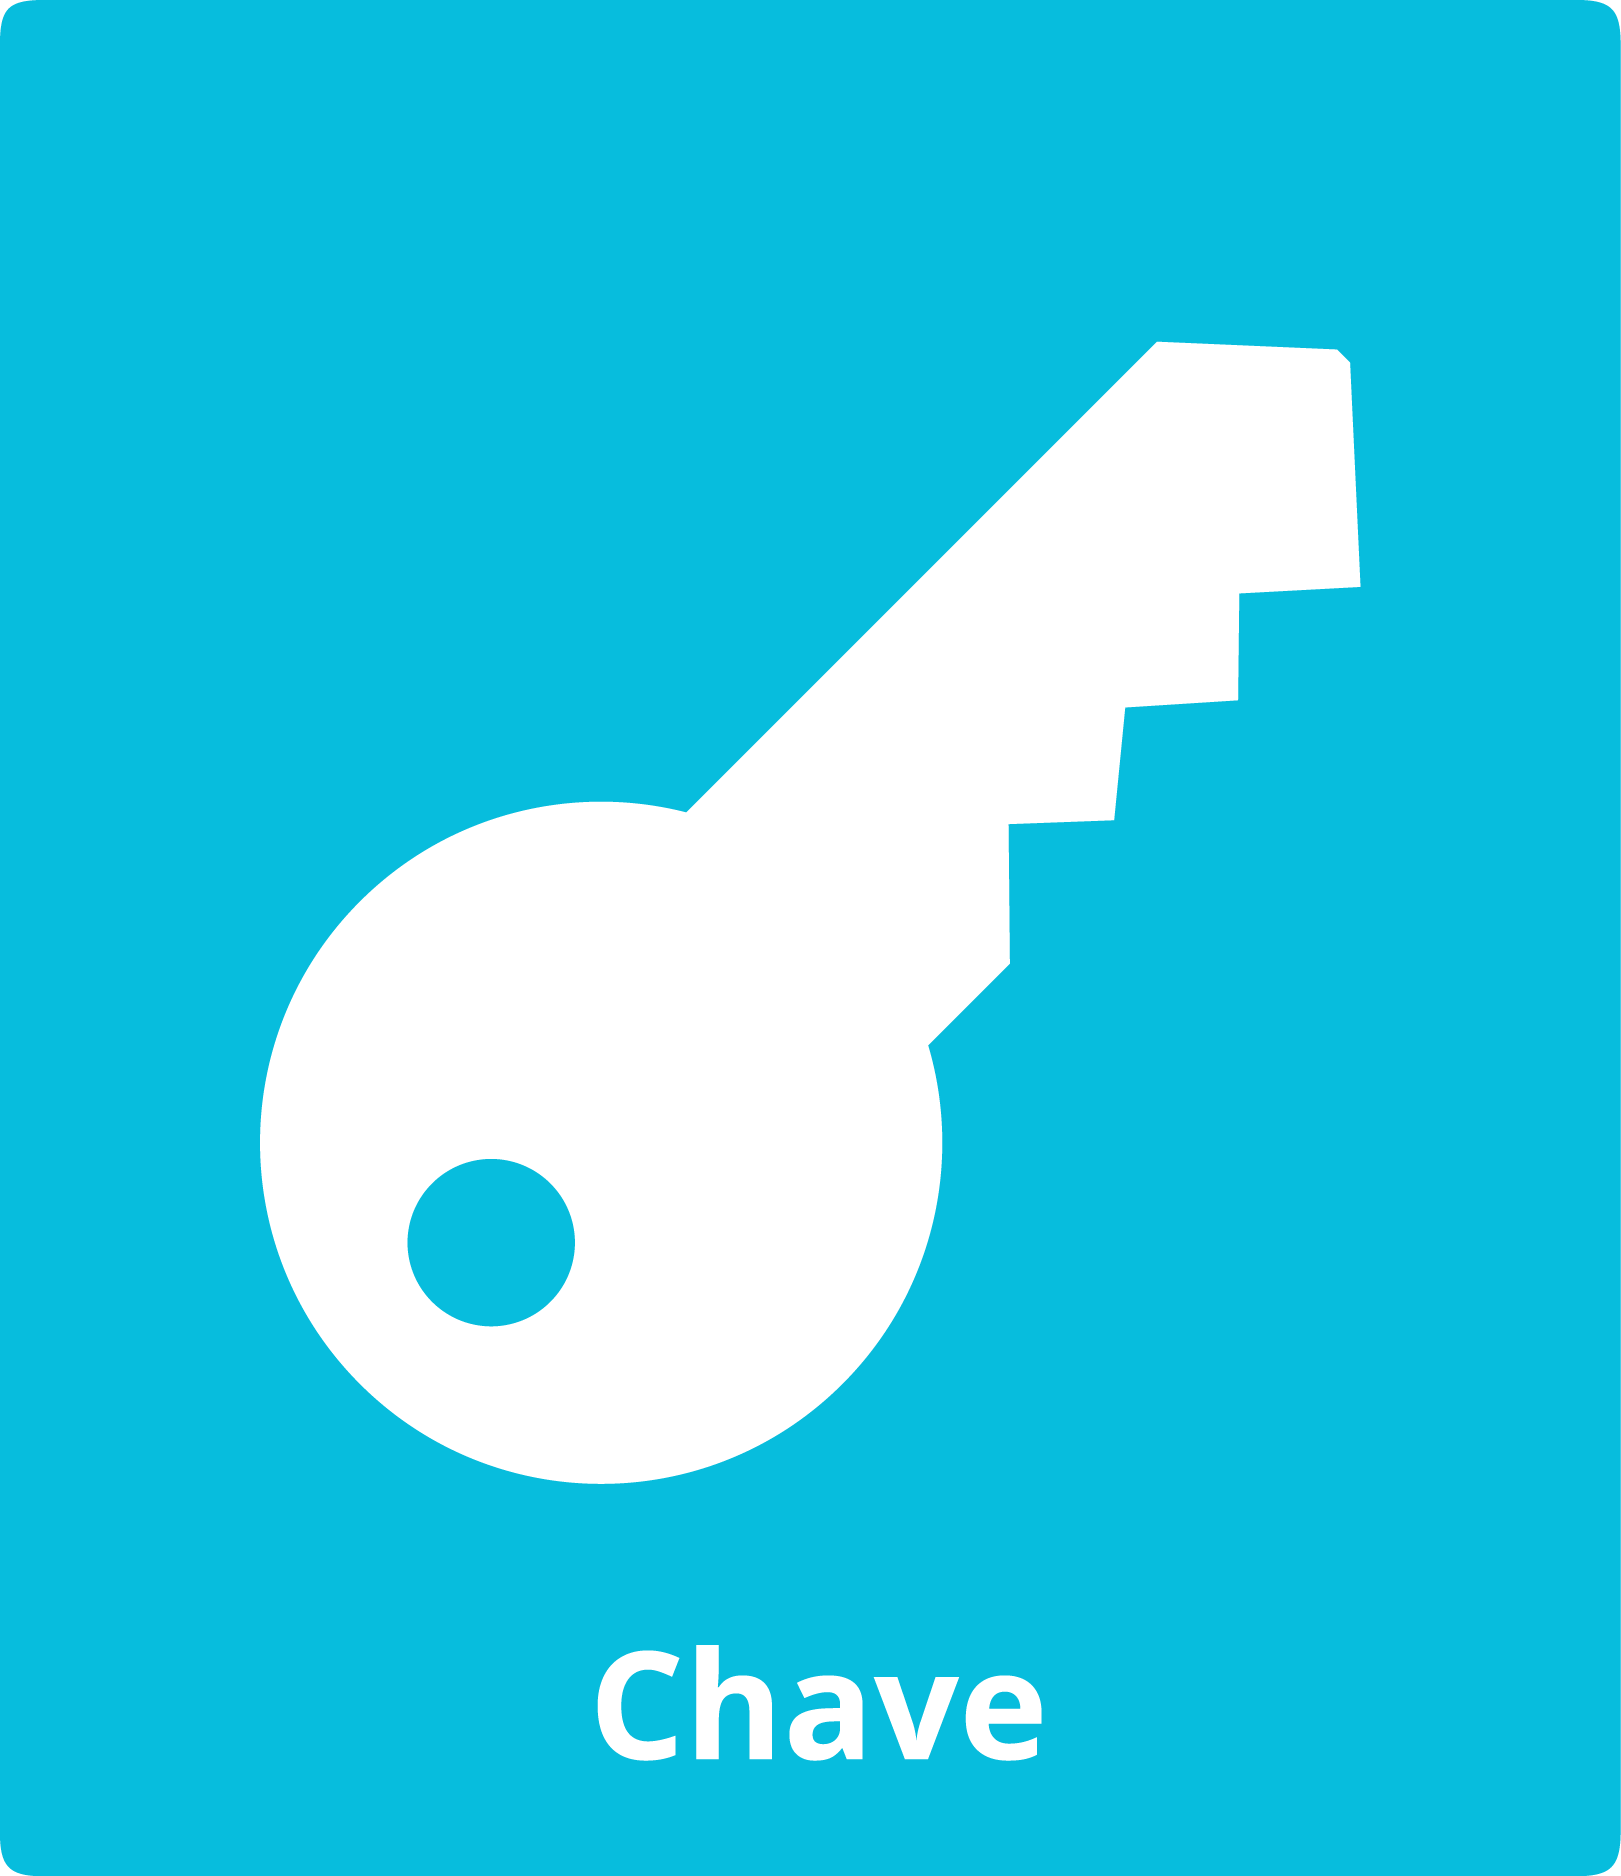
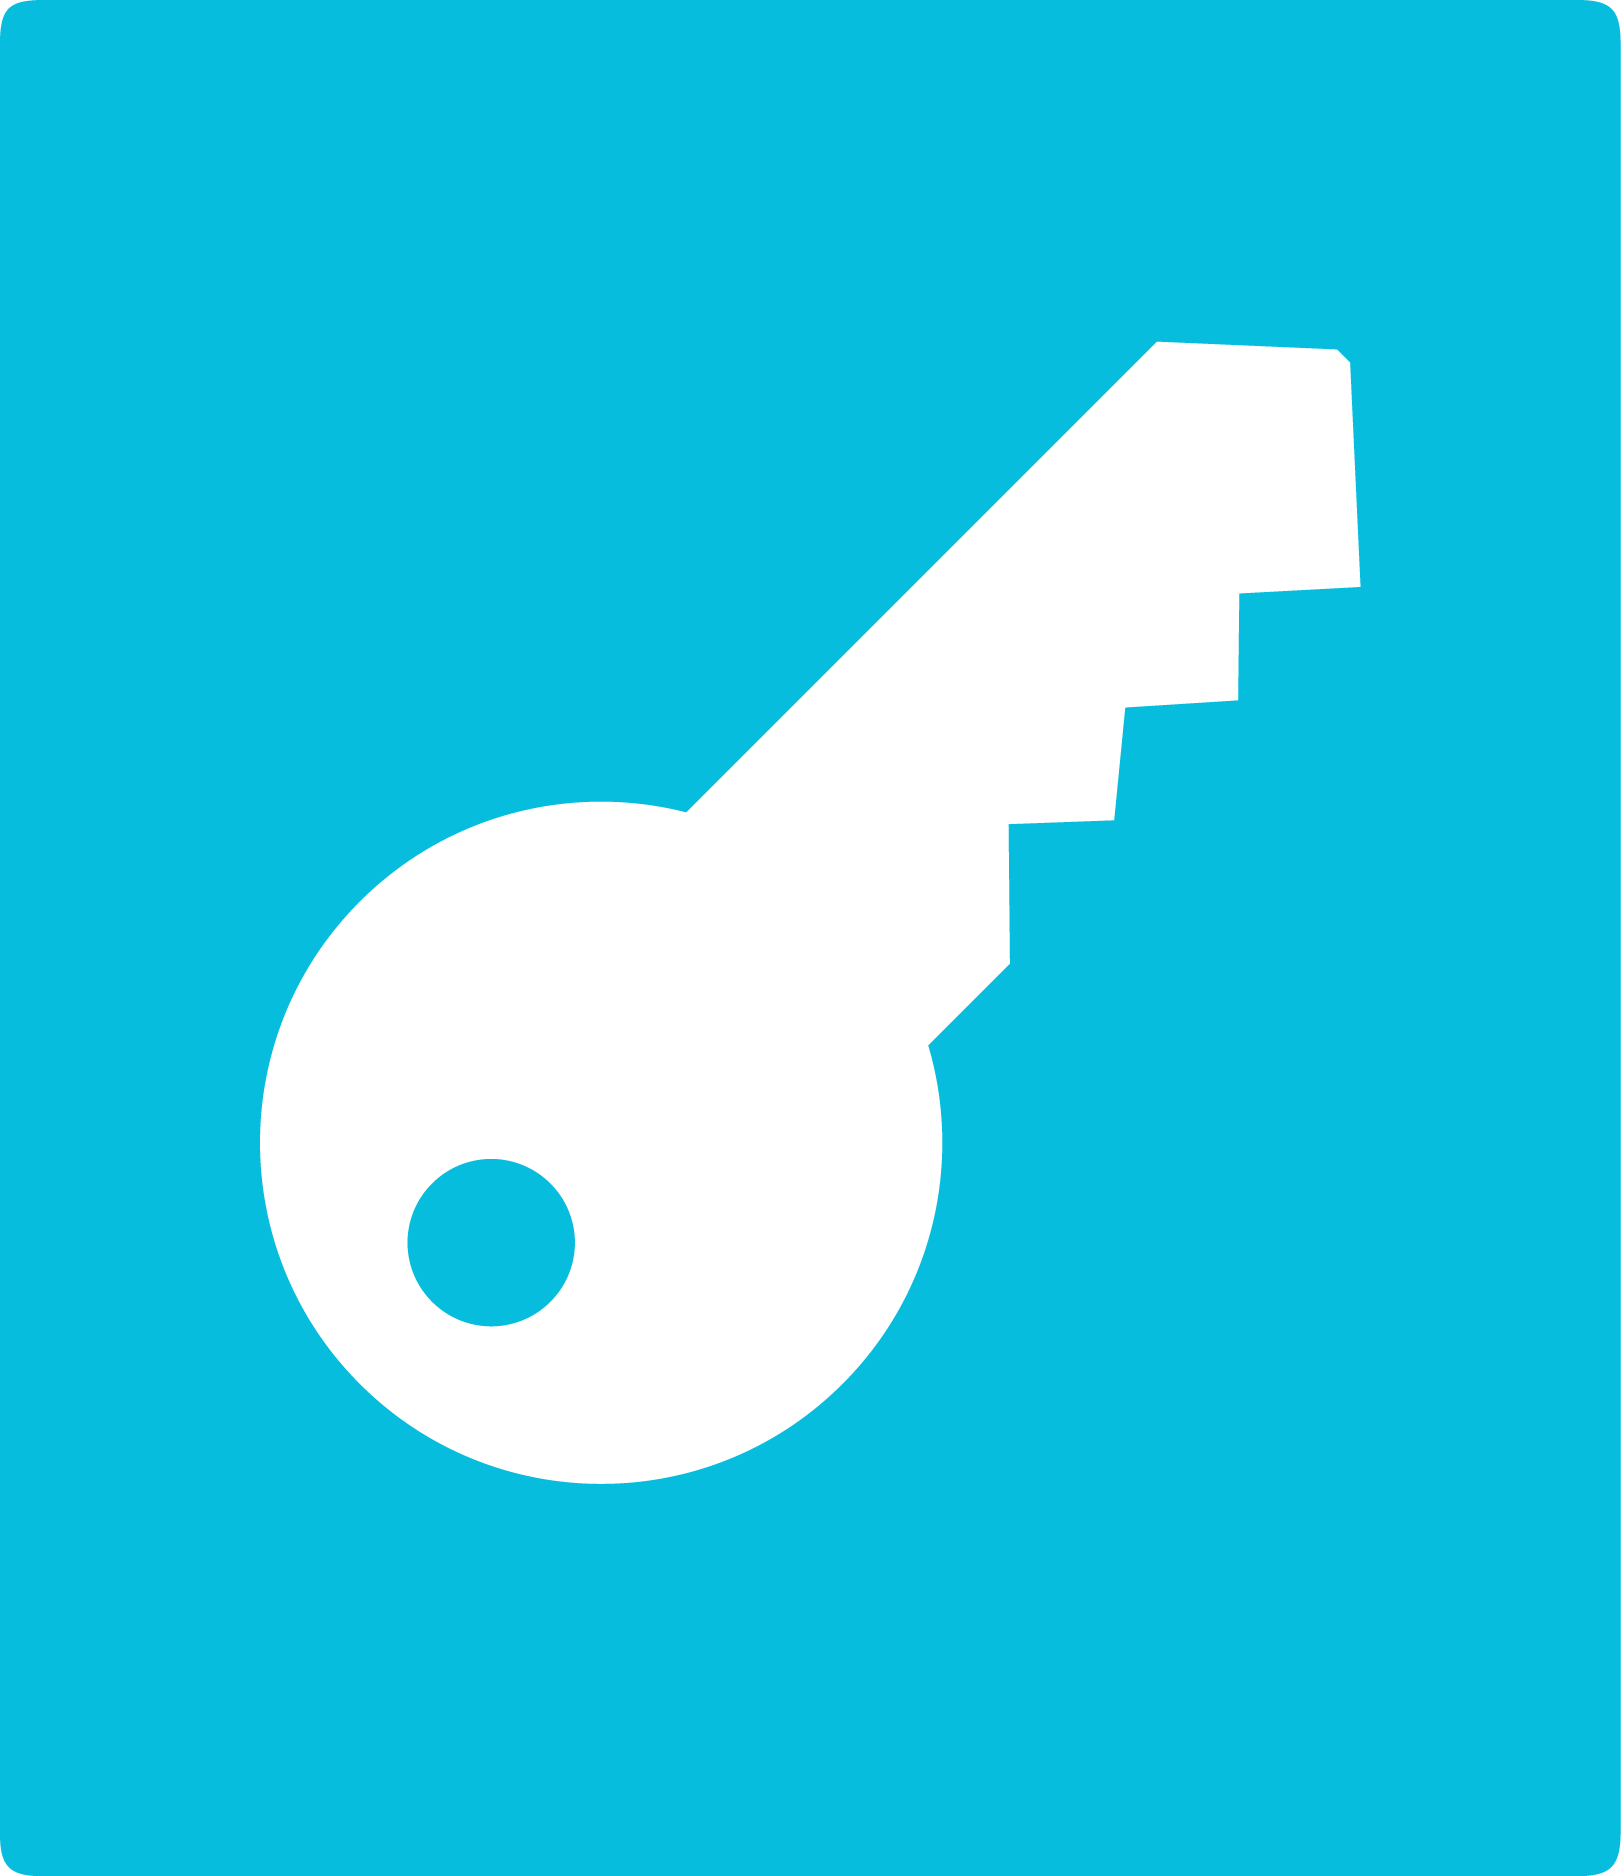
inventario texto

Changed region(s): [[0.3701, 0.8657, 0.6477, 0.9584]]

diff --git a/Assets/Scripts/NewMenu.cs b/Assets/Scripts/NewMenu.cs
@@ -793,7 +793,7 @@ public class NewMenu : MonoBehaviour
             CanvasGroup cg = currItem.GetComponent<CanvasGroup>();
 
             //currItem.GetComponentInChildren<Text>().text = items[i];
-            currItem.GetComponentInChildren<Text>().text = "";
+            //currItem.GetComponentInChildren<Text>().text = "";
 
             currItem.transform.SetParent(firstMenu.transform, false);
             currItem.GetComponent<RectTransform>().transform.localPosition = new Vector3(initialPos.x, initialPos.y);
